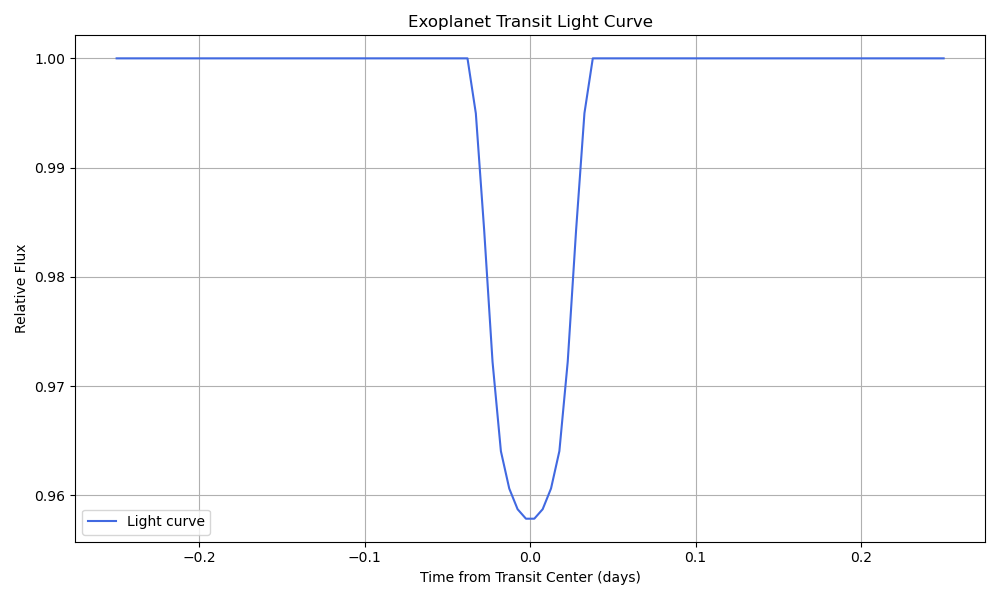
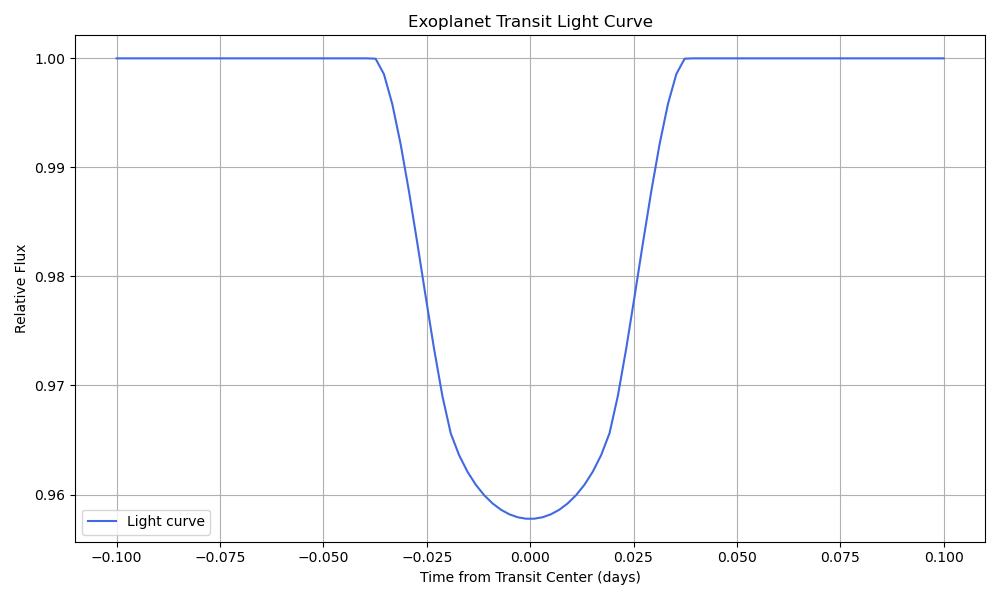
modifica transit.png

diff --git a/src/daneel/detection/transit.py b/src/daneel/detection/transit.py
@@ -13,7 +13,7 @@ params.w = 272.7                      #longitude of periastron (in degrees)
 params.limb_dark = "quadratic"        #limb darkening model
 params.u = [0.574, 0.197]             #limb darkening coefficients [u1, u2, u3, u4]
 
-t = np.linspace(-0.25,0.25,100)              #times at which to calculate light curve
+t = np.linspace(-0.10,0.10,100)              #times at which to calculate light curve
 m = batman.TransitModel(params, t)
 
 flux = m.light_curve(params)
